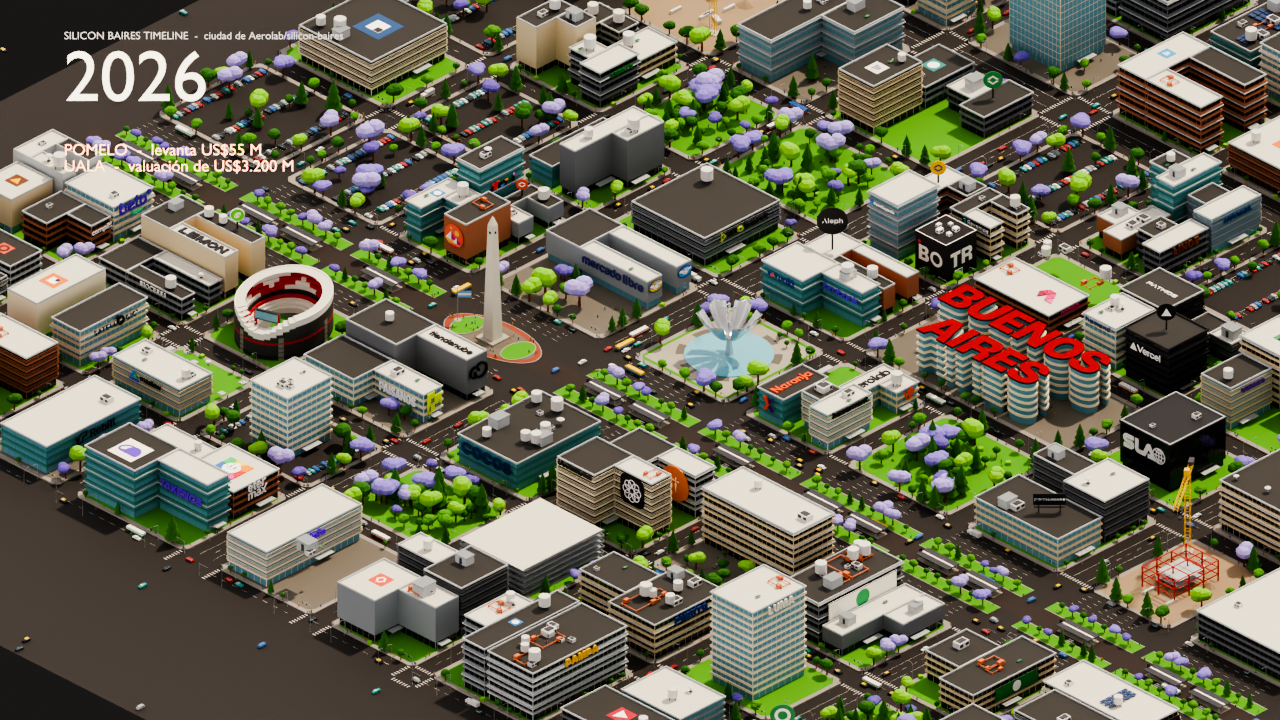
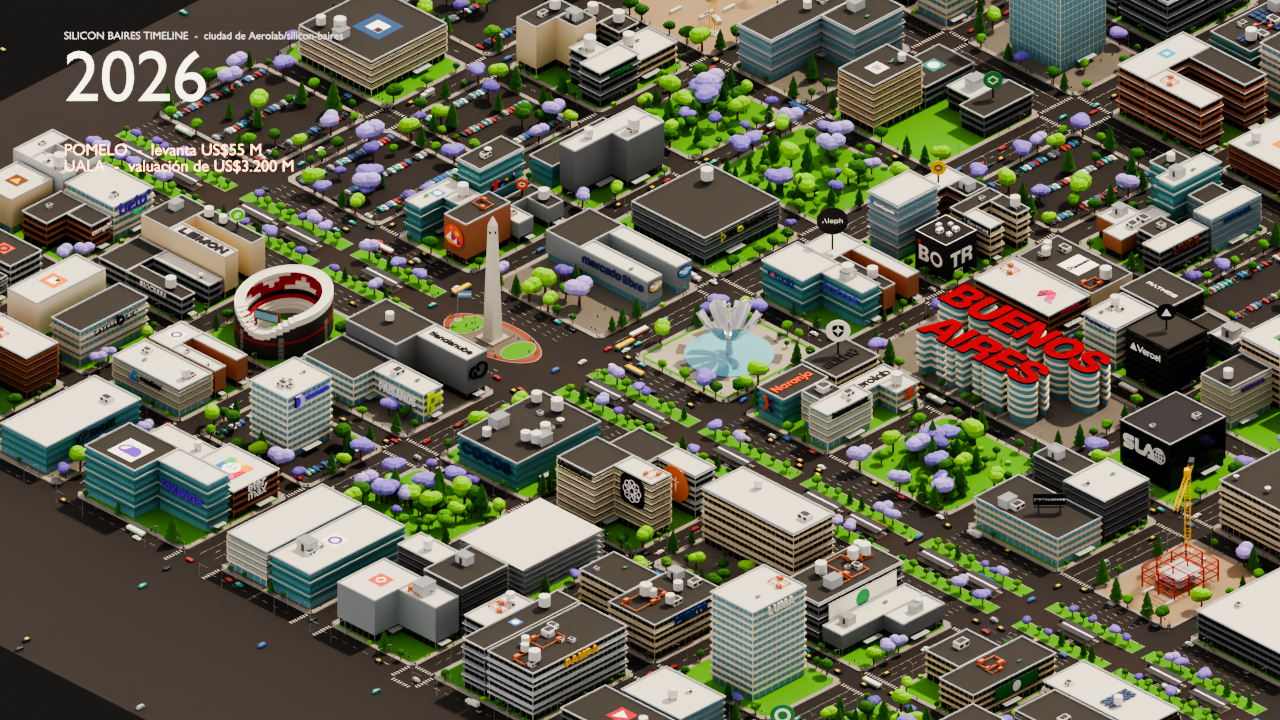
Los edificios se construyen y crecen; caerse queda para las que se funden
Dos correcciones. La primera: adquisición no es lo mismo que fundirse. Auth0
(Okta), Technisys (SoFi), Despegar (Prosus) y OLX (Naspers) se vendieron bien,
así que sus edificios quedan en pie y la compra pasa a ser un hito. Bajar un
edificio queda reservado para una empresa que efectivamente desaparece.

La segunda: el edificio ya no aparece entero. Nace al 42% de su altura el año
en que se funda la empresa y va subiendo por escalones. Los escalones caen en
los hitos con fecha —salidas a bolsa, rondas, compras—, que es lo único
documentado que tenemos para las veintidós por igual. NO es una curva de
valuación: no hay valuaciones comparables para todas y fabricar una sería
inventar el dato. Sin hitos, el edificio crece parejo durante siete años.

De paso, 'hito' ahora acepta texto o lista, porque Despegar y OLX tienen dos
cada una.

diff --git a/scripts/timeline_layer.py b/scripts/timeline_layer.py
@@ -188,6 +188,48 @@ def freeze_camera(scene, report, subjects):
     return cam
 
 
+def hitos_de(info):
+    """`hito` puede venir como texto o como lista. Devuelve siempre lista."""
+    hito = info.get("hito")
+    if not hito:
+        return []
+    return [hito] if isinstance(hito, str) else list(hito)
+
+
+def hito_year(text):
+    head = text.split(":", 1)[0].strip()
+    return int(head) if head.isdigit() else None
+
+
+# Que fraccion de su altura tiene el edificio el dia que la empresa se funda.
+# El resto lo gana creciendo.
+SEED_HEIGHT = 0.42
+# Si la empresa no tiene hitos con fecha, tarda esto en llegar a su altura.
+DEFAULT_GROWTH_YEARS = 7
+
+
+def growth_steps(founded, info):
+    """Los escalones de altura del edificio, de la fundacion a su tamano final.
+
+    El edificio NO aparece entero: nace chico y va subiendo. Los escalones caen
+    en los hitos con fecha de la empresa (salidas a bolsa, rondas, compras),
+    que es lo unico documentado que tenemos para las veintidos por igual. NO es
+    una curva de valuacion: no hay valuaciones comparables para todas, y
+    fabricar uma seria inventar el dato.
+
+    Sin hitos, el edificio crece parejo durante DEFAULT_GROWTH_YEARS.
+    """
+    years = sorted({y for y in (hito_year(h) for h in hitos_de(info))
+                    if y and y > founded})
+    if not years:
+        years = [founded + DEFAULT_GROWTH_YEARS]
+    span = 1.0 - SEED_HEIGHT
+    steps = [(founded, SEED_HEIGHT)]
+    for index, year in enumerate(years, start=1):
+        steps.append((year, SEED_HEIGHT + span * index / len(years)))
+    return steps
+
+
 def site_index(root):
     """Los 126 sitios de upstream, indexados por su coordenada.
 
@@ -355,12 +397,16 @@ def animate_signs(root, scene, report, collection):
 
         if part is not None:
             built += 1
+            steps = growth_steps(year, info)
             set_key_interpolation("BEZIER")
             part.scale = (1.0, 1.0, 0.001)
             part.keyframe_insert("scale", index=2, frame=1)
             part.keyframe_insert("scale", index=2, frame=frame_in)
-            part.scale = (1.0, 1.0, 1.0)
-            part.keyframe_insert("scale", index=2, frame=frame_in + grow)
+            for step_year, height in steps:
+                part.scale = (1.0, 1.0, height)
+                part.keyframe_insert(
+                    "scale", index=2,
+                    frame=year_to_frame(step_year) + grow)
             if frame_end:
                 part.keyframe_insert("scale", index=2, frame=frame_end)
                 part.scale = (1.0, 1.0, 0.001)
@@ -441,13 +487,12 @@ def build_hud(cam, scene, by_year, end_by_year, table, collection, report):
     # 2026 y aparecia debajo de un cartel que decia 2017.
     hitos = {}
     for brand, info in table.items():
-        hito = info.get("hito")
-        if not hito or ":" not in hito:
-            continue
-        head, tail = hito.split(":", 1)
-        if head.strip().isdigit():
-            hitos.setdefault(int(head.strip()), []).append(
-                "%s  -  %s" % (brand, tail.strip()))
+        for hito in hitos_de(info):
+            year = hito_year(hito)
+            if year is None:
+                continue
+            hitos.setdefault(year, []).append(
+                "%s  -  %s" % (brand, hito.split(":", 1)[1].strip()))
 
     for year in range(YEAR_START, YEAR_END + 1):
         frame_in = year_to_frame(year)
